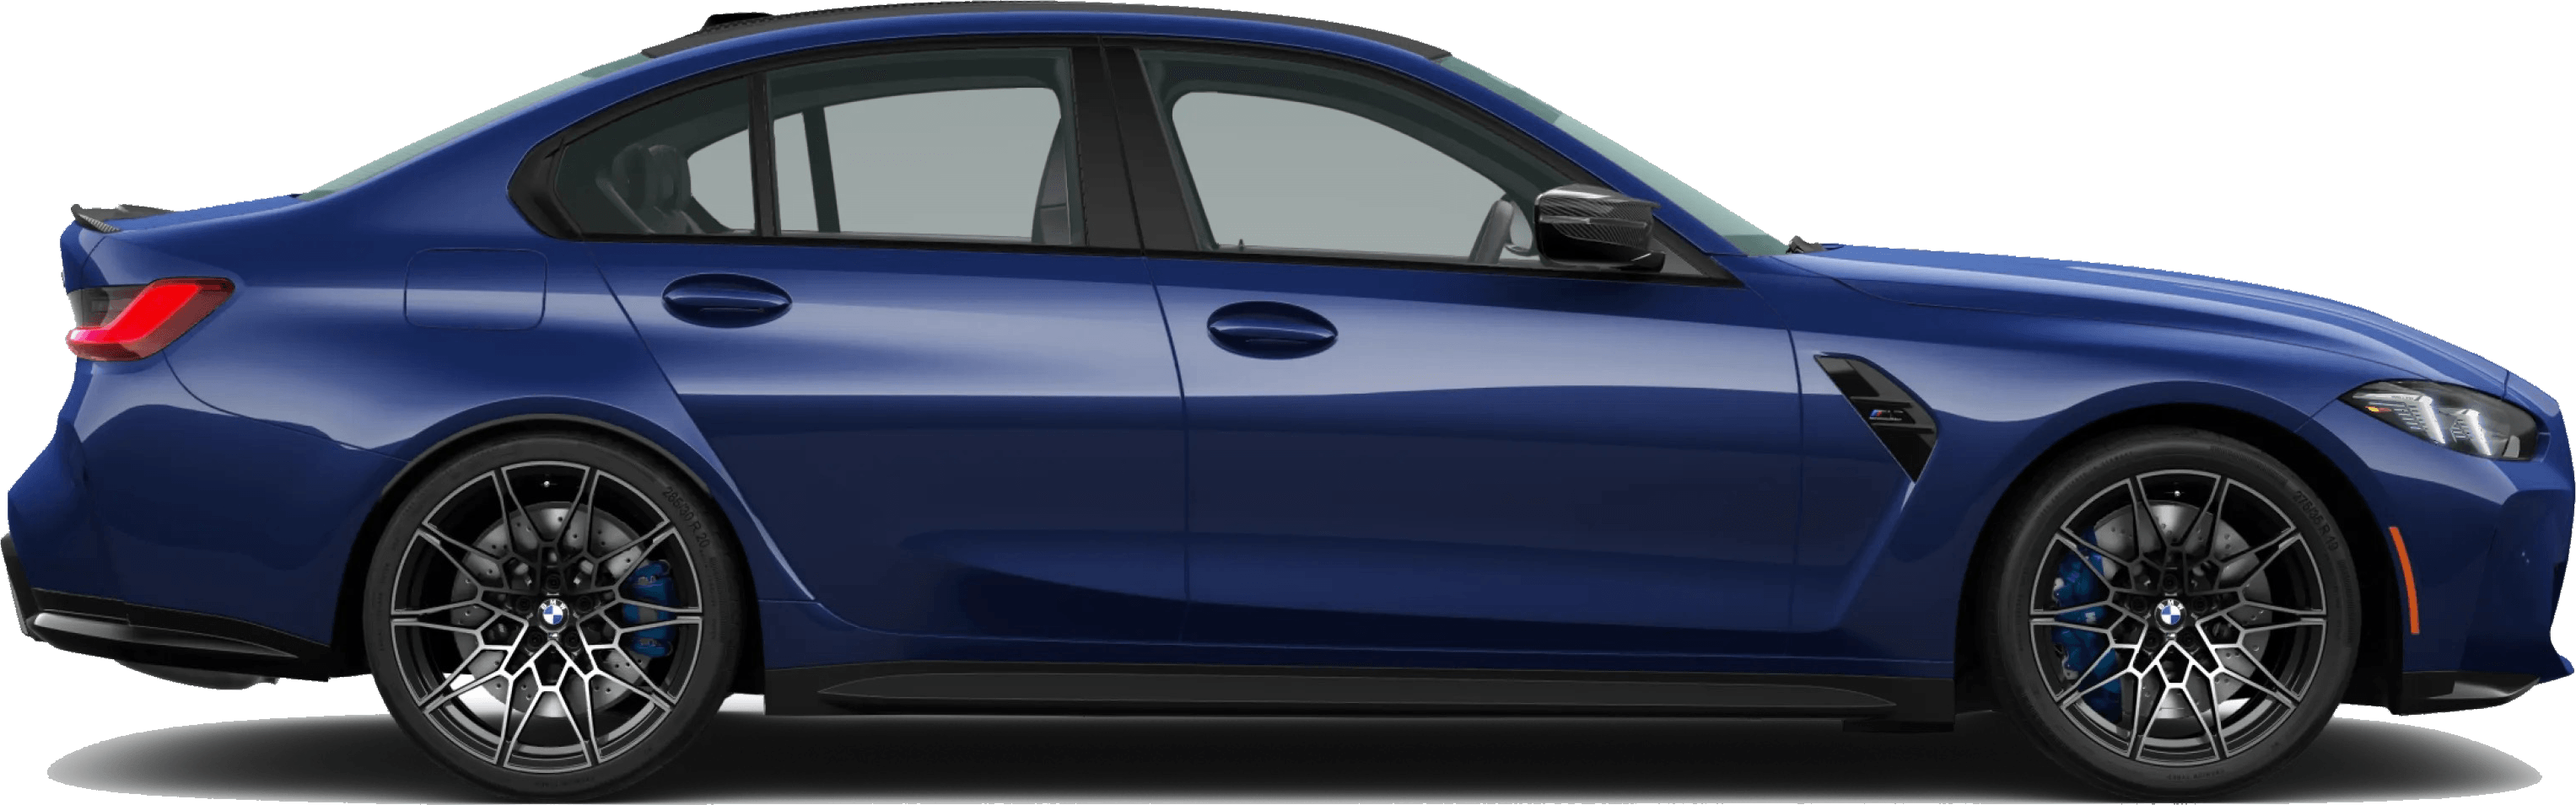
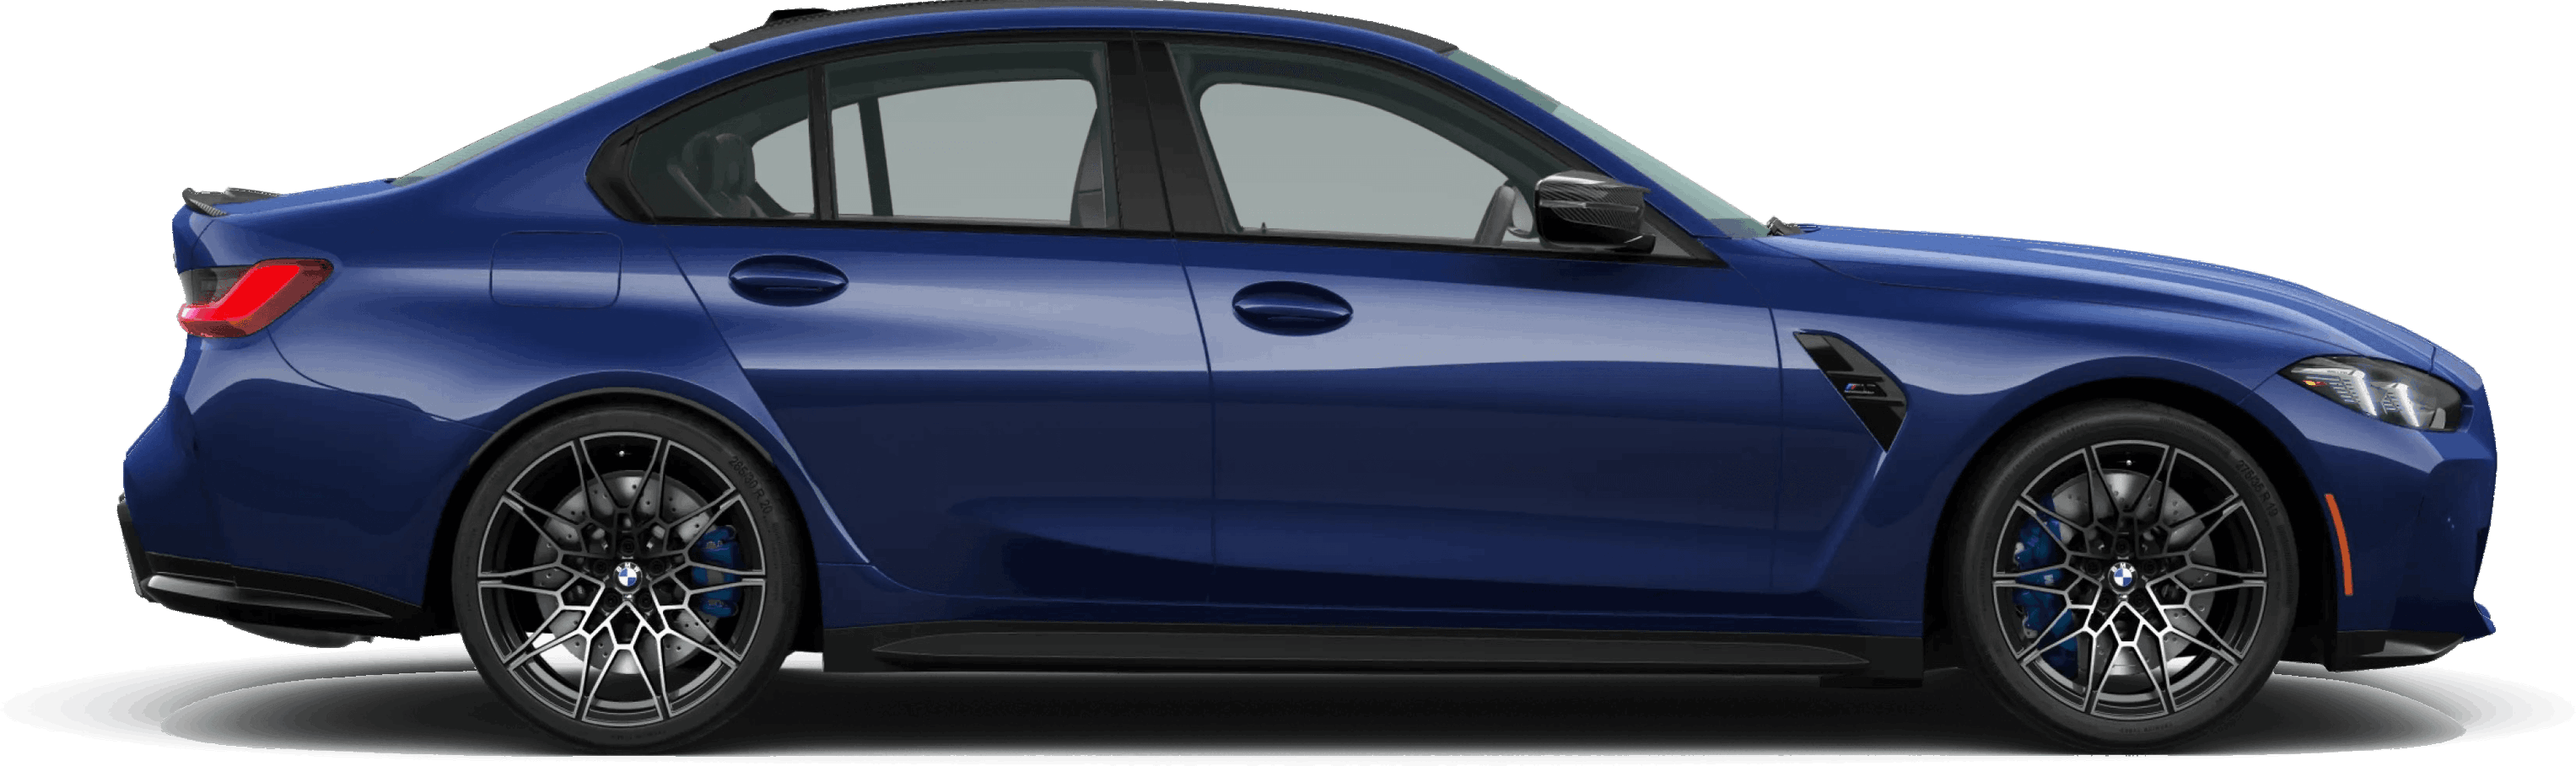
Line the clear frame up with the corrected shades
Clear was still the old render on the old geometry, so toggling it
against a shade shifted the car. Box-matching wasn't enough — each
render's tight crop includes its own ground shadow and the shadows
differ, so matching crops didn't match bodies (IoU 0.9155).

Two steps got it still. First, an affine fit of the car body onto the
corrected shade silhouette — coarse-to-fine search over independent x/y
scale and translation — which aligns the bodies to a couple of pixels
(IoU 0.9611, with the residual almost entirely the shadow). Then, since
the shadow is ground rather than car, the fitted clear is composited
over the shade frame's own shadow — Clear now shares the exact frame and
silhouette of the shades, and the 0.4% of edge slivers left are
sub-pixel at display size.

Measured on the page: Clear and every shade render at the same natural
size, same drawn box, same ground line.

diff --git a/src/data/tintLevels.ts b/src/data/tintLevels.ts
@@ -18,11 +18,12 @@ export type TintLevel = {
 };
 
 export const tintLevels: TintLevel[] = [
-  // INTERIM: the sedan clear is still the old render. The four shades were
-  // re-rendered without the accidental windshield tint, but no clear came
-  // with them, and the old base only matches the new one to a 93% silhouette
-  // — so Clear<->shade toggles shift slightly until the corrected clear
-  // render arrives. Replace /tint-levels/0.png and delete this note.
+  // The sedan clear is the pre-correction render conformed onto the new
+  // base: the car body affine-fitted to the corrected shades (bodies match
+  // to a couple of pixels) and stood on the shade set's own ground shadow,
+  // so its silhouette and frame are identical to the shades' and the toggle
+  // holds still. If a corrected clear export ever arrives it can replace
+  // /tint-levels/0.png outright, but nothing depends on that happening.
   { value: 0, label: "Clear", images: { sedan: "/tint-levels/0.png", suv: "/tint-levels/suv-0.png", truck: "/tint-levels/truck-0.png" } },
   { value: 80, label: "80%", images: {}, windshieldOnly: true },
   { value: 50, label: "50%", images: { sedan: "/tint-levels/50.png", suv: "/tint-levels/suv-50.png", truck: "/tint-levels/truck-50.png" } },
